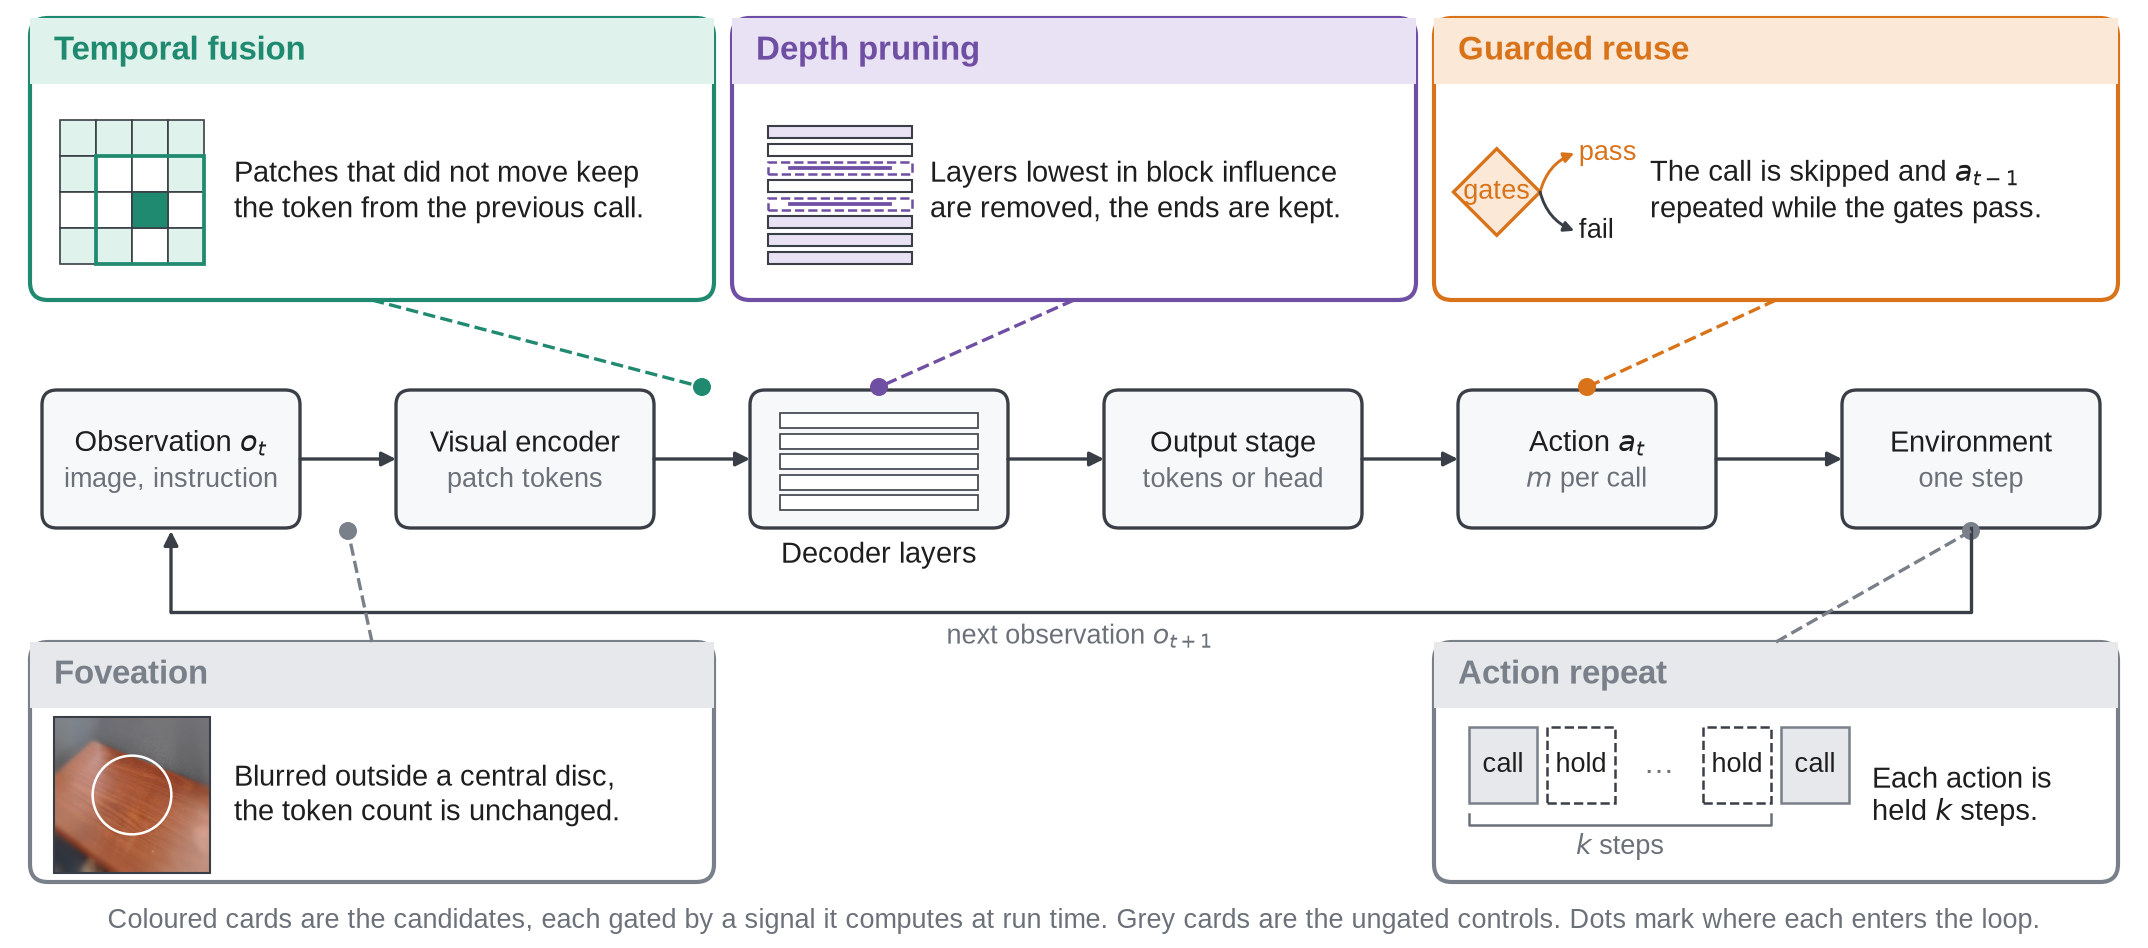
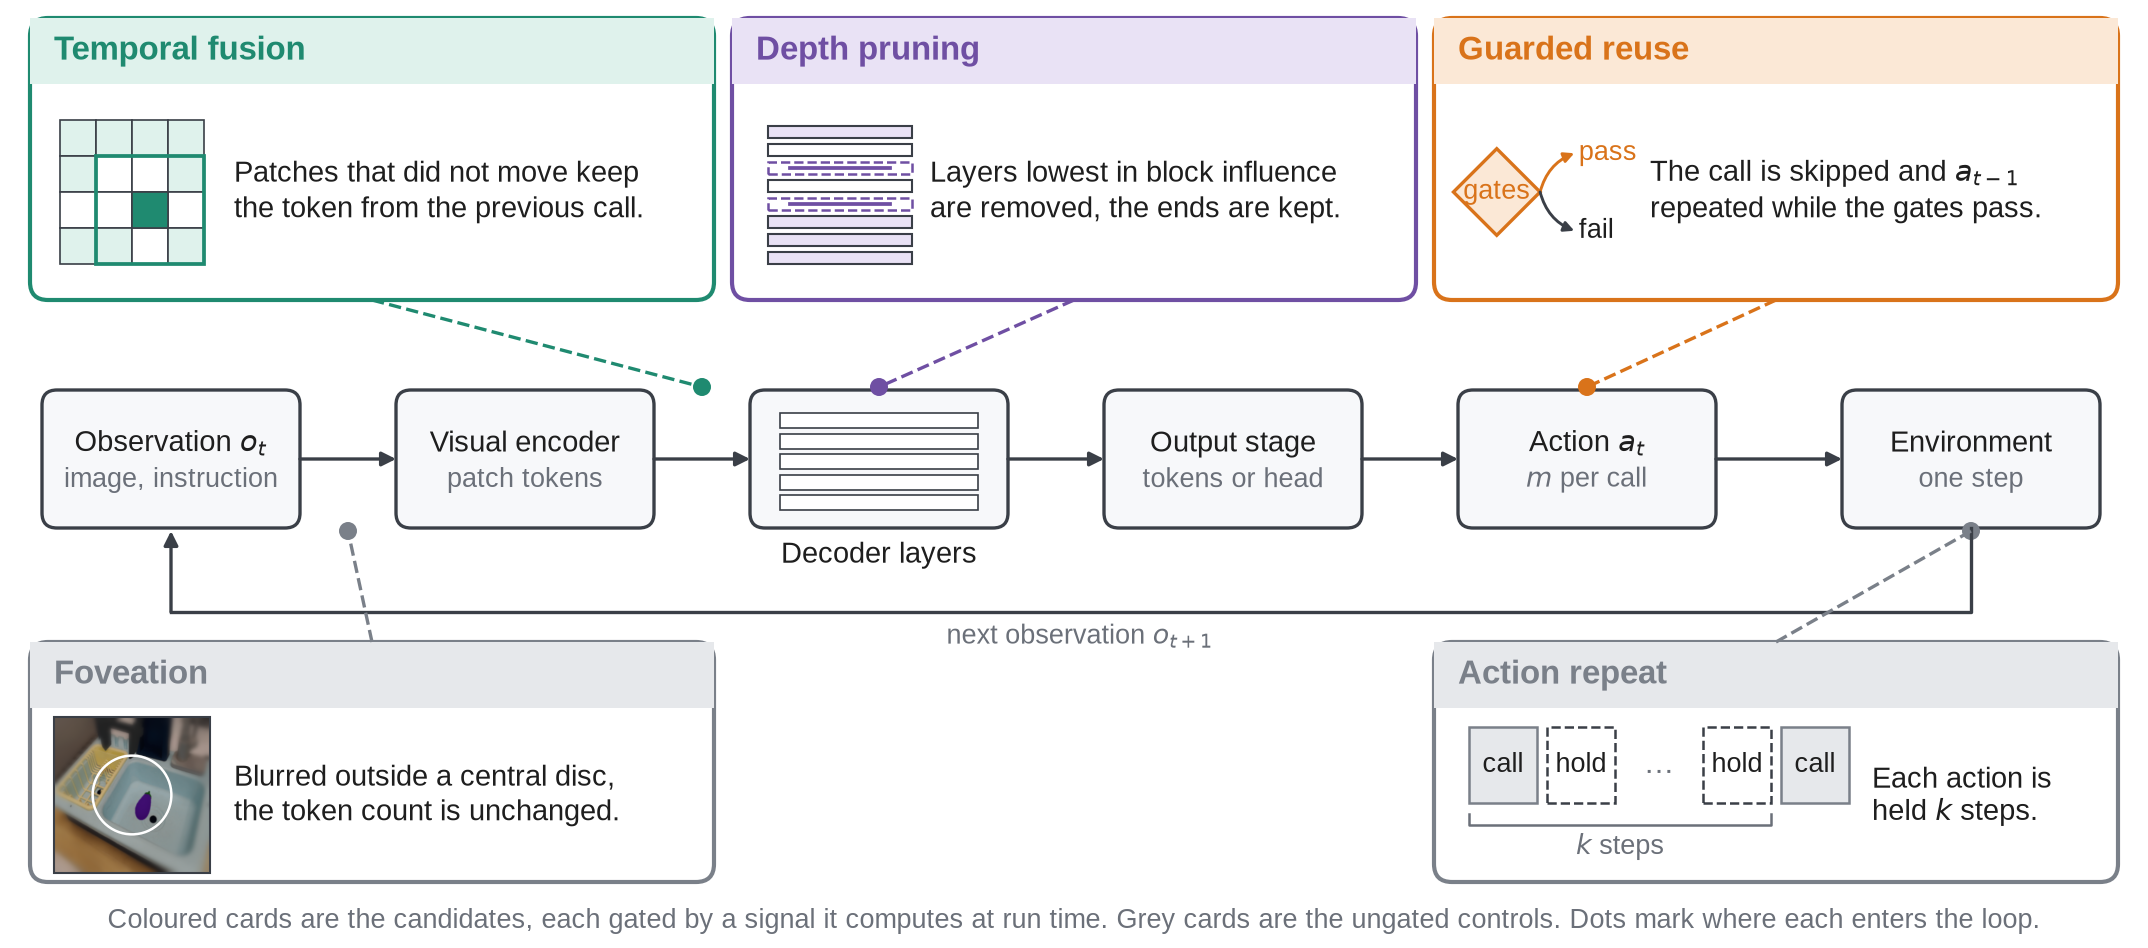
Overview figure: foveation thumbnail from a real Bridge eggplant observation
Use the raw 640x480 SimplerEnv WidowX Bridge frame committed in f9d54a0
(put eggplant in basket) instead of the empty background, resized to 224 px
and passed through the harness foveation transform. The eggplant sits in
the sharp disc and the rack, faucet and gripper are blurred.

Claude-Session: https://claude.ai/code/session_011USoCwMtkSq1wKhwTPjNT9

Changed region(s): [[0.0, 0.7342, 0.1248, 0.9177]]

diff --git a/experiments/paper/make_overview.py b/experiments/paper/make_overview.py
@@ -578,9 +578,12 @@ def candidate_A2(verbose=True):
 # one plain sentence per card instead of keyword fragments, and the foveation
 # thumbnail is the real transform on the real Bridge scene.
 ROOT = os.path.abspath(os.path.join(os.path.dirname(__file__), "..", ".."))
-BRIDGE_BG = [
+# A real SimplerEnv WidowX Bridge observation (put eggplant in basket), the
+# raw 640x480 frame captured in commit f9d54a0, with the empty Bridge
+# background photograph from ManiSkill2_real2sim as a fallback.
+FRAMES = [
+    os.path.join(ROOT, "experiments", "figures", "obs_eggplant_raw.png"),
     os.path.join(ROOT, "SimplerEnv", "ManiSkill2_real2sim", "data", "real_inpainting", "bridge_real_eval_1.png"),
-    os.path.join(ROOT, "RetinaBased", "PythonProject", "SimplerEnv", "ManiSkill2_real2sim", "data", "real_inpainting", "bridge_real_eval_1.png"),
 ]
 
 
@@ -588,11 +591,11 @@ def foveation_real(keep_ratio=0.20, size=224):
     """The fixed-foveation transform as run in the MiniVLA harness
     (vla_tricks/foveation.py::foveate_blur on the 224 px policy input):
     sharp disc of area keep_ratio, then a blend into Gaussian sigma 3 and
-    sigma 9 copies with distance. Applied to the SimplerEnv WidowX Bridge
-    background photograph shipped with ManiSkill2_real2sim."""
+    sigma 9 copies with distance. Applied to a real Bridge observation
+    resized to the policy input size, as the harness does."""
     import cv2
     from PIL import Image
-    path = next(p for p in BRIDGE_BG if os.path.exists(p))
+    path = next(p for p in FRAMES if os.path.exists(p))
     frame = np.asarray(Image.open(path).convert("RGB").resize((size, size), Image.BILINEAR), dtype=np.uint8)
     h, w = frame.shape[:2]
     cx, cy = w / 2.0, h / 2.0
